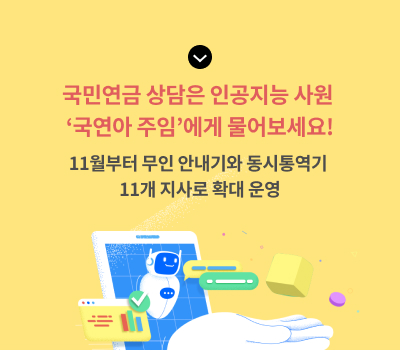
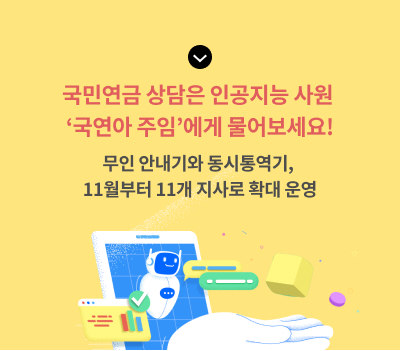
sub01 news01 edit 16:43

Changed region(s): [[0.18, 0.4274, 0.84, 0.5698]]

diff --git a/html/vol202/css/contents.css b/html/vol202/css/contents.css
@@ -361,6 +361,7 @@
 .sub01 .section04 .tablet_display_only { display: none; }
 .sub01 .section04 .mobile_display_only { display: none; }
 
+.sub01 .news01 .section05 .content .reporter .answer { padding-bottom: 60px; }
 .sub01 .news01 .section05 .content .reporter div.graph_area01 { padding: 0; }
 .sub01 .news01 .section05 .content .reporter div.graph_area04 { padding: 0 36px 36px; background: #fff; display: flex; justify-content: space-between; }
 .sub01 .news01 .section05 .content .reporter div.graph_area04 .inner { display: flex; justify-content: space-between; align-items: flex-start; flex: 1; }

diff --git a/html/vol202/sub01.php b/html/vol202/sub01.php
@@ -57,15 +57,16 @@
 						<div class="img"><img src="img/sub01/sub01_04.svg"></div>
 						<div class="question">
 							첫 번째 뉴스입니다. <br>
-							외국 국적 민원인분들께서 주목하실 만한 뉴스인데요. 국민연금공단이 공공기관 최초로 동시통역이 가능한 인공지능 사원 서비스를 11개 지사로 확대 운영한다는 소식입니다. <br>
-							자세한 소식 취재기자 M과 알아보겠습니다. M기자, 인공지능 사원에 대해 자세히 설명해 주세요.
+							외국 국적 민원인분들께서 주목하실 만한 뉴스입니다. 국민연금공단은 공공기관 최초로 동시통역이 가능한 인공지능(AI) 사원 서비스를 지난 6월부터 5개 지사에서 시범운영 해왔는데요. 11월부터는 11개 지사로 확대 운영한다는 소식입니다. <br>
+							자세한 소식 취재기자 M과 함께 알아보겠습니다. M기자, 인공지능(AI) 사원 ‘국연아 주임’에 대해 자세히 설명해 주세요.
 						</div>
 					</div>
 					<div class="reporter">
 						<div class="answer">
 							<div class="quotes"><img src="img/sub01/quotes.svg"></div>
 							<div class="text">
-								지난 11월 11일 국민연금공단 안산지사 민원실에서 ‘외국인도 국민연금에 가입해야 하냐?’는 질문에 베트남어로 설명하는 목소리가 들렸습니다. 주인공은 올해 1월 임용된 인공지능 사원 ‘국연아 주임’인데요. 영어, 중국어, 베트남어, 인도네시아어, 필리핀어, 일본어, 스페인어, 러시아어, 태국어, 스리랑카어 등 10개 국어 동시통역이 가능해 지난 6월부터 외국 국적 민원인이 많은 지역에 배치돼 업무하고 있습니다.
+								지난 11월 11일 국민연금공단 안산지사 민원실에서 ‘외국인도 국민연금에 가입해야 하냐?’는 질문에 베트남어로 설명하는 목소리가 들렸습니다. 그 주인공은 올해 1월 임용된 국민연금 인공지능(AI) 사원 ‘국연아 주임’입니다.<br>
+								‘국연아 주임’은 영어, 중국어, 베트남어, 인도네시아어, 필리핀어, 일본어, 스페인어, 러시아어, 태국어, 스리랑카어 등 10개 국어의 동시통역이 가능한 인공지능(AI) 사원입니다. 지난 6월부터 외국 국적 민원인이 많은 지역인 화성오산·평택안성·안산·김해밀양지사와 부산지역본부 민원실에서 활약하고 있습니다.
 							</div>
 							<div class="img"><img src="img/sub01/reporter-chr.svg"></div>
 						</div>
@@ -77,14 +78,14 @@
 					<div class="anchor alignCenter">
 						<div class="img"><img src="img/sub01/sub01_04.svg"></div>
 						<div class="question">
-						외국 국적 민원인분들께서 더욱 편리하게 상담하셨을 것 같습니다! 그동안 ‘국연아 주임’은 어떤 업무를 했는지 자세한 설명 부탁드립니다.
+							그렇군요. ‘국연아 주임’은 어떤 역할을 하고 있나요?
 						</div>
 					</div>
 					<div class="reporter">
 						<div class="answer">
 							<div class="quotes padMore"><img src="img/sub01/quotes.svg"></div>
 							<div class="text">
-								네. ‘국연아 주임’은 화성오산 &middot; 평택안성 &middot; 안산 &middot; 김해밀양지사와 부산지역본부 민원실에서 다양한 외국 국적 민원인들을 만났는데요. 무인 안내기를 통해 질의하는 내 &middot; 외국인 문의에 성실히 답변하고, 국민연금공단 직원과 외국 국적 민원인 사이에서 동시통역 역할도 수행했습니다.
+								‘국연아 주임’은 무인 안내기를 통해 질의하는 외국인 문의에 답변하고, 국민연금공단 직원과 외국 국적 민원인 사이에서 동시통역 역할을 수행하고 있습니다. 언어의 장벽으로 상담에 어려움을 겪었던 외국인에게 도움을 주는 서비스라고 할 수 있습니다.
 							</div>
 							<div class="img"><img src="img/sub01/reporter-chr.svg"></div>
 						</div>
@@ -93,14 +94,14 @@
 					<div class="anchor alignCenter">
 						<div class="img"><img src="img/sub01/sub01_04.svg"></div>
 						<div class="question">
-							임용 후 각종 업무를 수행한 만큼 다양한 데이터가 쌓였을 것 같습니다. ‘국연아 주임’에게 쌓인 데이터는 어떻게 활용 중인 가요?
+							정말 많은 도움이 될 것 같습니다. 인공지능(AI) 사원 ‘국연아 주임’을 잘 활용하면 앞으로의 기대효과도 상당할 것으로 보이는데요.
 						</div>
 					</div>
 					<div class="reporter">
 						<div class="answer">
 							<div class="quotes padMore"><img src="img/sub01/quotes.svg"></div>
 							<div class="text">
-								네. 지난 5개월간 수집한 데이터를 바탕으로 언어 능력을 고도화했다고 합니다. 이후 11월 서울북부지역본부, 영등포지사, 광명지사, 남인천지사(인천국제공항상담센터), 포항지사, 국제연금지원센터 등 국민연금공단 6개 지사에 추가 배치됐습니다. 
+								네, 맞습니다. 외국인 입장에서는 한국어가 서툴더라도 편하게 지사에 방문하여 상담을 받을 수 있습니다. 직원 입장에서는 원활한 의사소통을 통해 착오 처리에 대한 부담이 줄어드는 장점이 있습니다. 궁극적으로는 연금 서비스 취약계층의 진입장벽을 제거함으로써 누구에게나 평등한 국민연금 정보를 제공하는 기대효과를 얻을 수 있겠습니다.
 							</div>
 							<div class="img"><img src="img/sub01/reporter-chr.svg"></div>
 						</div>
@@ -113,14 +114,30 @@
 					<div class="anchor alignCenter">
 						<div class="img"><img src="img/sub01/sub01_04.svg"></div>
 						<div class="question question-p">
+							네 그렇군요, 인공지능(AI) 사원 ‘국연아 주임’이 11월 이후 추가 배치 되었다고 하는데, 어디에서 만나볼 수 있나요?
+						</div>
+					</div>
+					<div class="reporter">
+						<div class="answer answer-p">
+							<div class="quotes"><img src="img/sub01/quotes.svg"></div>
+							<div class="text">
+								서울북부지역본부, 영등포지사, 광명지사, 남인천지사(인천국제공항상담센터), 포항지사, 국제연금지원센터 등 국민연금공단 6개 지사에 추가 배치됐습니다.
+							</div>
+							<div class="img"><img src="img/sub01/reporter-chr.svg"></div>
+						</div>
+					</div>
+
+					<div class="anchor alignCenter">
+						<div class="img"><img src="img/sub01/sub01_04.svg"></div>
+						<div class="question question-p">
 							앞으로 더 많은 지사에서 ‘국연아 주임’을 만날 수 있겠네요.
 						</div>
 					</div>
 					<div class="reporter">
-						<div class="answer">
+						<div class="answer answer-p">
 							<div class="quotes"><img src="img/sub01/quotes.svg"></div>
 							<div class="text">
-								네. 국민연금공단은 앞으로도 데이터를 꾸준히 수집해 인공지능 사원 ‘국연아 주임’ 서비스 품질을 향상하고, 활용 방안도 확대한다는 방침입니다. 또한, 국민연금공단 전국 지사에 ‘국연아 주임’을 배치하는 것도 검토할 계획입니다. 
+								네. 국민연금공단은 앞으로도 데이터를 꾸준히 수집해 인공지능(AI) 사원 ‘국연아 주임’ 서비스의 품질을 향상하고, 활용 방안을 확대한다는 방침입니다. 또한, 국민연금공단 전국 지사에 인공지능(AI) 사원 ‘국연아 주임’을 배치하는 것도 검토할 계획입니다. 
 							</div>
 							<div class="img"><img src="img/sub01/reporter-chr.svg"></div>
 						</div>
@@ -129,7 +146,7 @@
 					<div class="anchor alignCenter">
 						<div class="img"><img src="img/sub01/sub01_04.svg"></div>
 						<div class="question">
-							‘국연아 주임’의 활약을 기대해 보겠습니다! 국민연금공단 김태현 이사장은 “2014년 23만 명이었던 외국인 가입자 수가 10년 만에 46만 명으로 늘었고, 계속 늘어날 전망이다.”라며, “공단은 앞으로도 다양한 기술과 끊임없는 노력으로 외국인의 의무 이행과 권리 보장에 힘쓰겠다.”라고 인공지능 사원 ‘국연아 주임’ 서비스에 관한 포부를 전했습니다.
+							‘국연아 주임’의 활약을 기대해 보겠습니다! 국민연금공단 김태현 이사장은 “2014년 23만 명이었던 외국인 가입자 수가 10년 만에 46만 명으로 늘었고, 계속 늘어날 전망이다.”라며, “공단은 앞으로도 다양한 기술과 끊임없는 노력으로 외국인의 의무 이행과 권리 보장에 힘쓰겠다.”라고 인공지능(AI) 사원 ‘국연아 주임’ 서비스에 관한 포부를 전했습니다.
 						</div>
 					</div>
 				</div>
